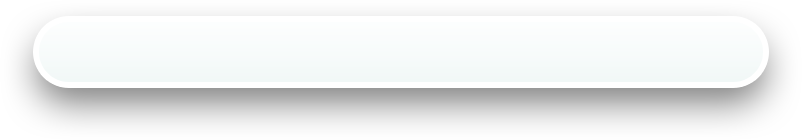
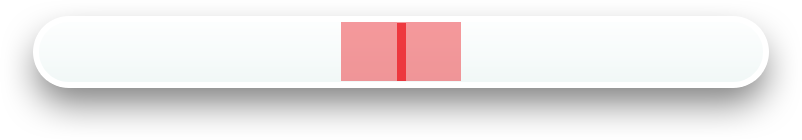
게이지바 리소스 변경 및 슬라이드 시간 조절 버그를 수정

Changed region(s): [[0.4052, 0.1429, 0.5923, 0.6]]

diff --git a/Assets/Scripts/UIScript/DraggableTimer.cs b/Assets/Scripts/UIScript/DraggableTimer.cs
@@ -38,11 +38,11 @@ public class DraggableTimer : MonoBehaviour, IDragHandler, IEndDragHandler, IBeg
             else if (previousMousePosition.x > Input.mousePosition.x)
             {
                 //Debug.Log("Time Minus");
-                if (GameMng.Instance.openTime - value > 0)
+                if (GameMng.Instance.openTime - value > 600)
                 {
                     GameMng.Instance.openTime -= value;
                 }
-                else if (GameMng.Instance.openTime > 0)
+                else if (GameMng.Instance.openTime > 600)
                 {
                     GameMng.Instance.openTime -= 1;
                 }
